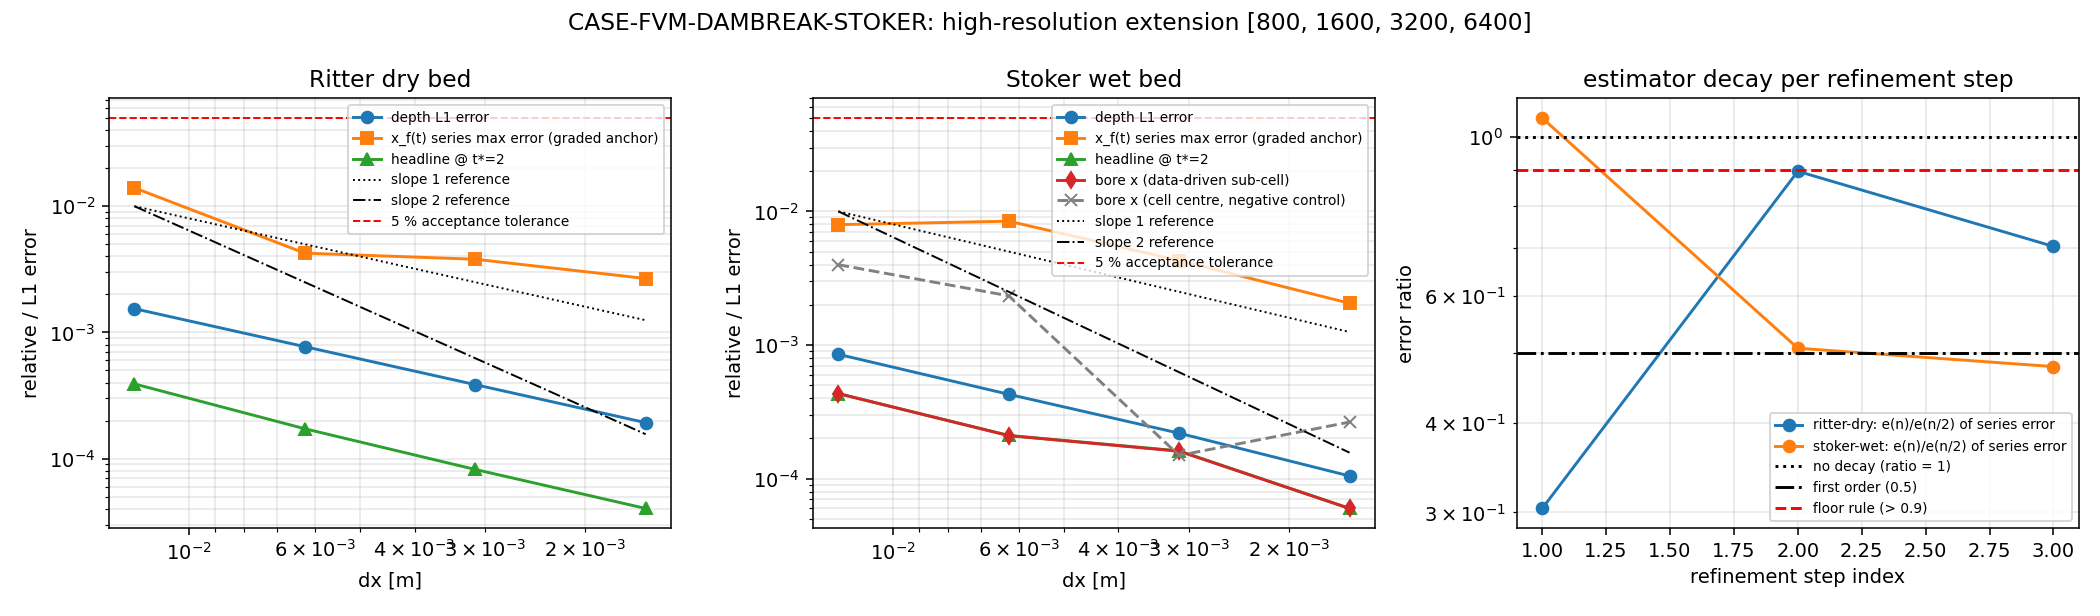
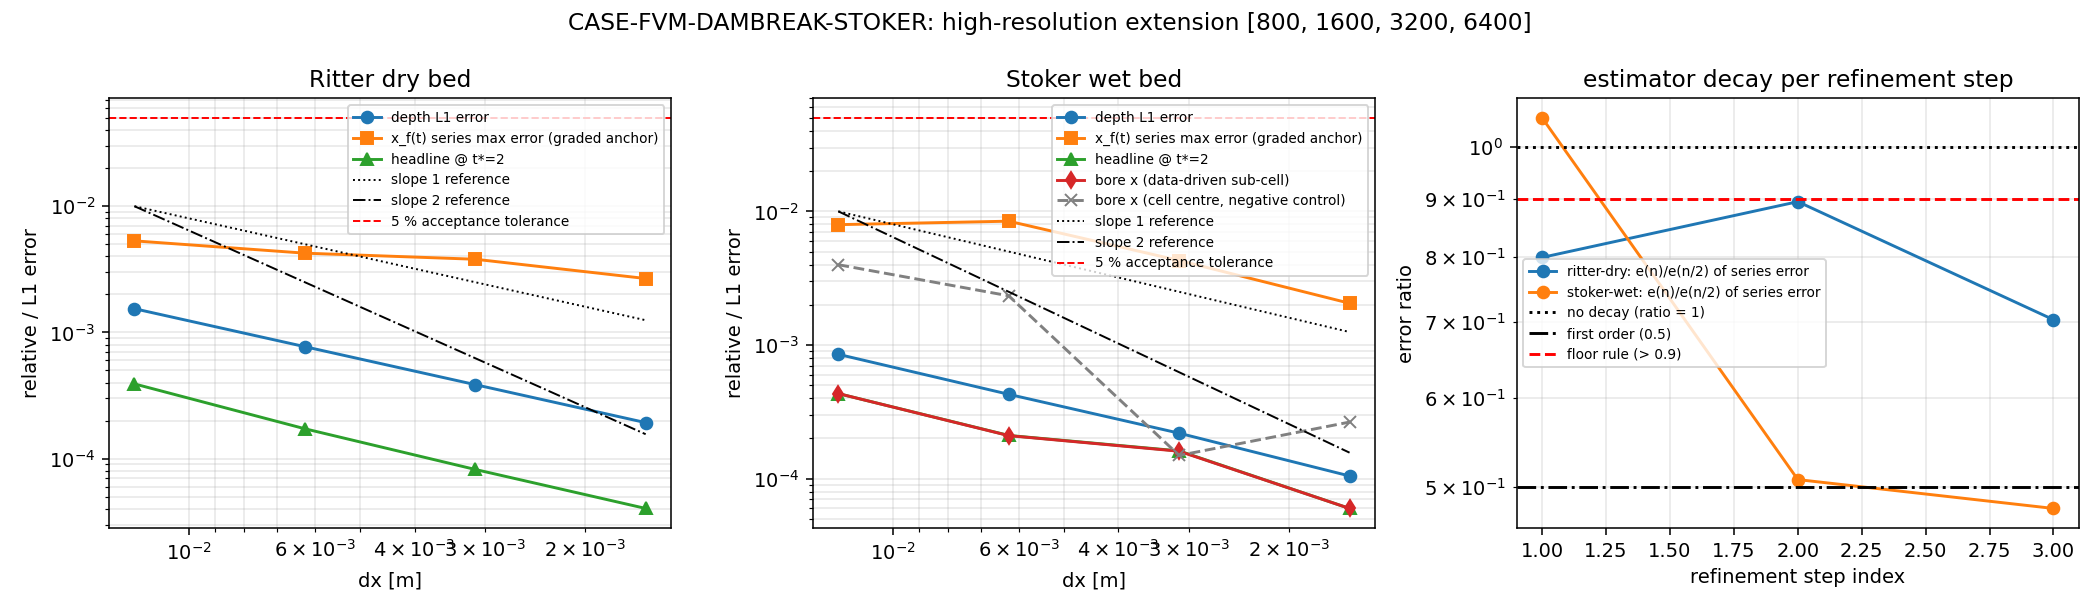
m23118: matured mission deliverables

diff --git a/docs/case-fvm-dambreak-stoker-hires/SUMMARY.md b/docs/case-fvm-dambreak-stoker-hires/SUMMARY.md
@@ -1,30 +1,30 @@
 # High-resolution dam-break extension (auto-generated)
 
-generated: 2026-11-14T14:01:59Z  commit: `c6d11630`  tolerance: 5%
+generated: 2026-11-16T07:26:18Z  commit: `91413c9d`  tolerance: 5%
 
 ## ritter-dry — headline = front_fan (fan-shape estimator at t*=2)
 
 | n | dx [m] | x_f(t) series | graded | headline | depth L1 | verdict failing | wall [s] |
 |---|---|---|---|---|---|---|---|
-| 800 | 0.0125 | 1.398% | 24/25 | 0.039% | 0.1542% | — | 1.2 |
-| 1600 | 0.00625 | 0.425% | 24/25 | 0.017% | 0.0772% | — | 3.0 |
-| 3200 | 0.003125 | 0.380% | 24/25 | 0.008% | 0.0386% | — | 7.7 |
-| 6400 | 0.0015625 | 0.267% | 24/25 | 0.004% | 0.0193% | — | 23.2 |
+| 800 | 0.0125 | 0.532% | 23/25 | 0.039% | 0.1542% | — | 1.0 |
+| 1600 | 0.00625 | 0.425% | 24/25 | 0.017% | 0.0772% | — | 2.9 |
+| 3200 | 0.003125 | 0.380% | 24/25 | 0.008% | 0.0386% | — | 8.2 |
+| 6400 | 0.0015625 | 0.267% | 24/25 | 0.004% | 0.0193% | — | 22.8 |
 
 * observed order (depth L1): 0.9992248819539148
-* observed order (x_f(t) series): 0.7316461613484639
+* observed order (x_f(t) series): 0.31333007366267634
 * observed order (headline): 1.090296434500497
 * series decay: finest ratio 0.7035582806276643 → at floor = False
-* series max over accepted grids (n>=800): 1.3976% (all pass: True)
+* series max over accepted grids (n>=800): 0.5317% (all pass: True)
 
 ## stoker-wet — headline = shock_position (oracle-windowed, AUDIT F4)
 
 | n | dx [m] | x_f(t) series | graded | headline | depth L1 | verdict failing | wall [s] |
 |---|---|---|---|---|---|---|---|
-| 800 | 0.0125 | 0.795% | 24/25 | 0.043% | 0.0851% | — | 0.7 |
-| 1600 | 0.00625 | 0.844% | 24/25 | 0.021% | 0.0427% | — | 1.7 |
-| 3200 | 0.003125 | 0.429% | 24/25 | 0.016% | 0.0219% | — | 4.6 |
-| 6400 | 0.0015625 | 0.205% | 24/25 | 0.006% | 0.0105% | — | 13.8 |
+| 800 | 0.0125 | 0.795% | 24/25 | 0.043% | 0.0851% | — | 0.6 |
+| 1600 | 0.00625 | 0.844% | 24/25 | 0.021% | 0.0427% | — | 1.5 |
+| 3200 | 0.003125 | 0.429% | 24/25 | 0.016% | 0.0219% | — | 4.2 |
+| 6400 | 0.0015625 | 0.205% | 24/25 | 0.006% | 0.0105% | — | 13.2 |
 
 * observed order (depth L1): 1.0041914164574552
 * observed order (x_f(t) series): 0.6840435098665504
